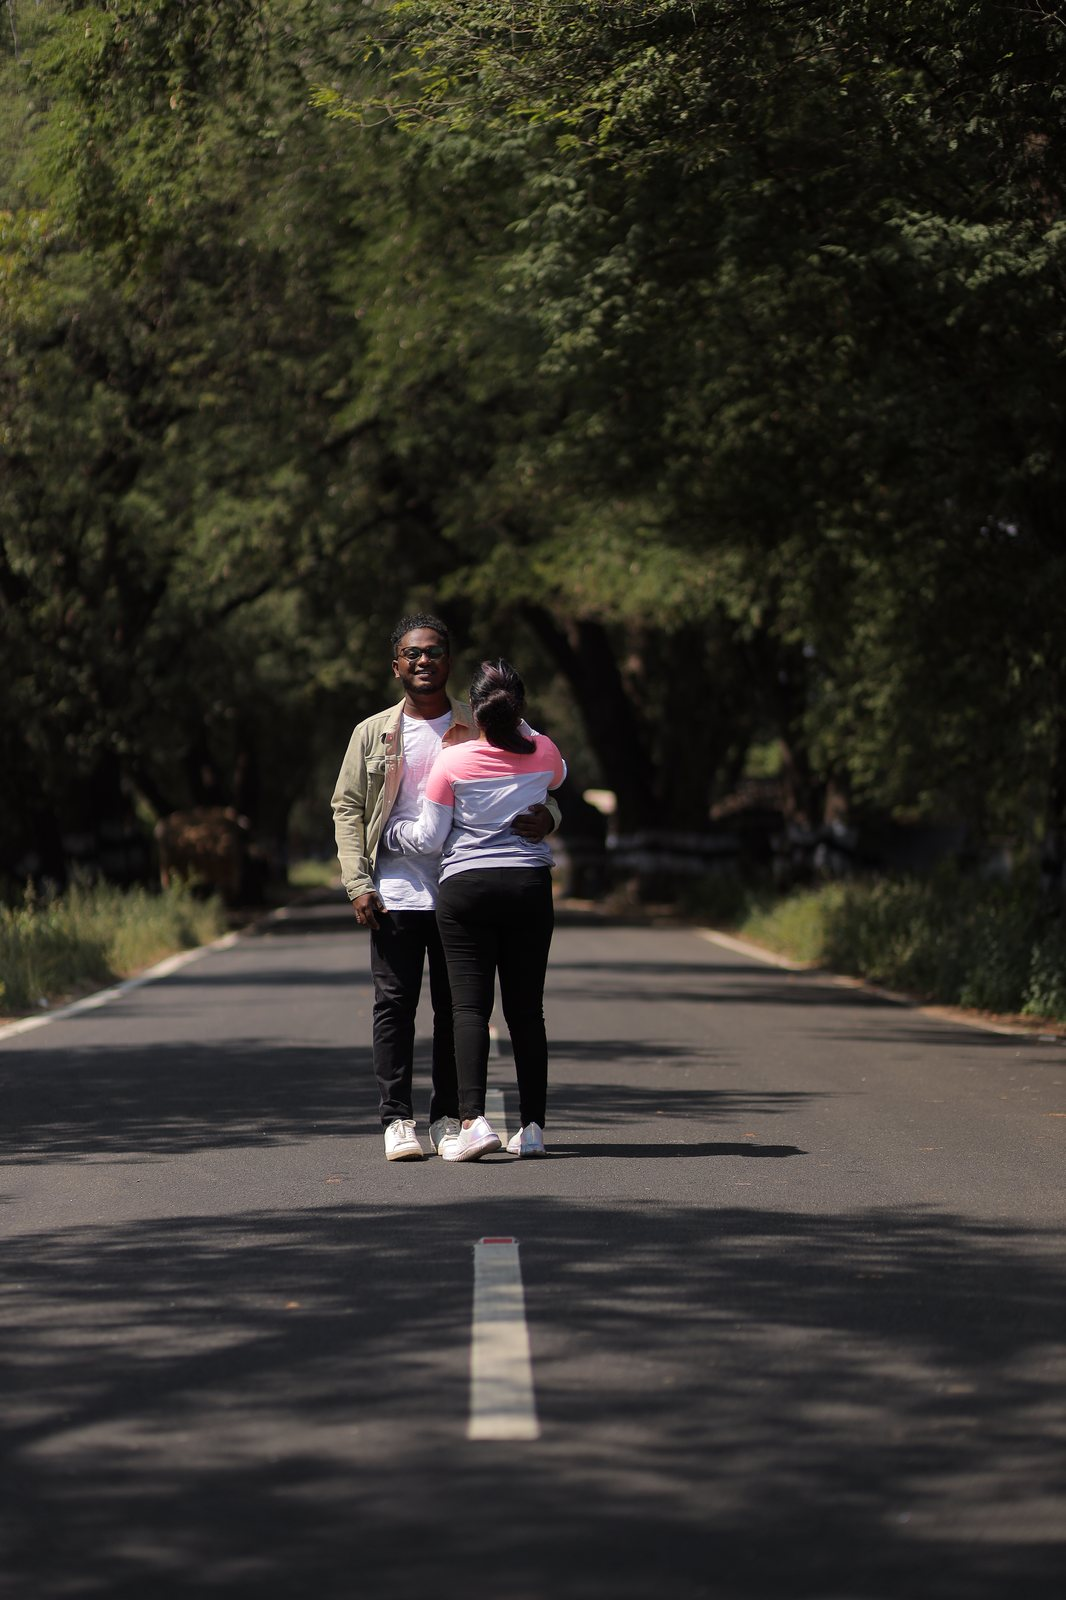
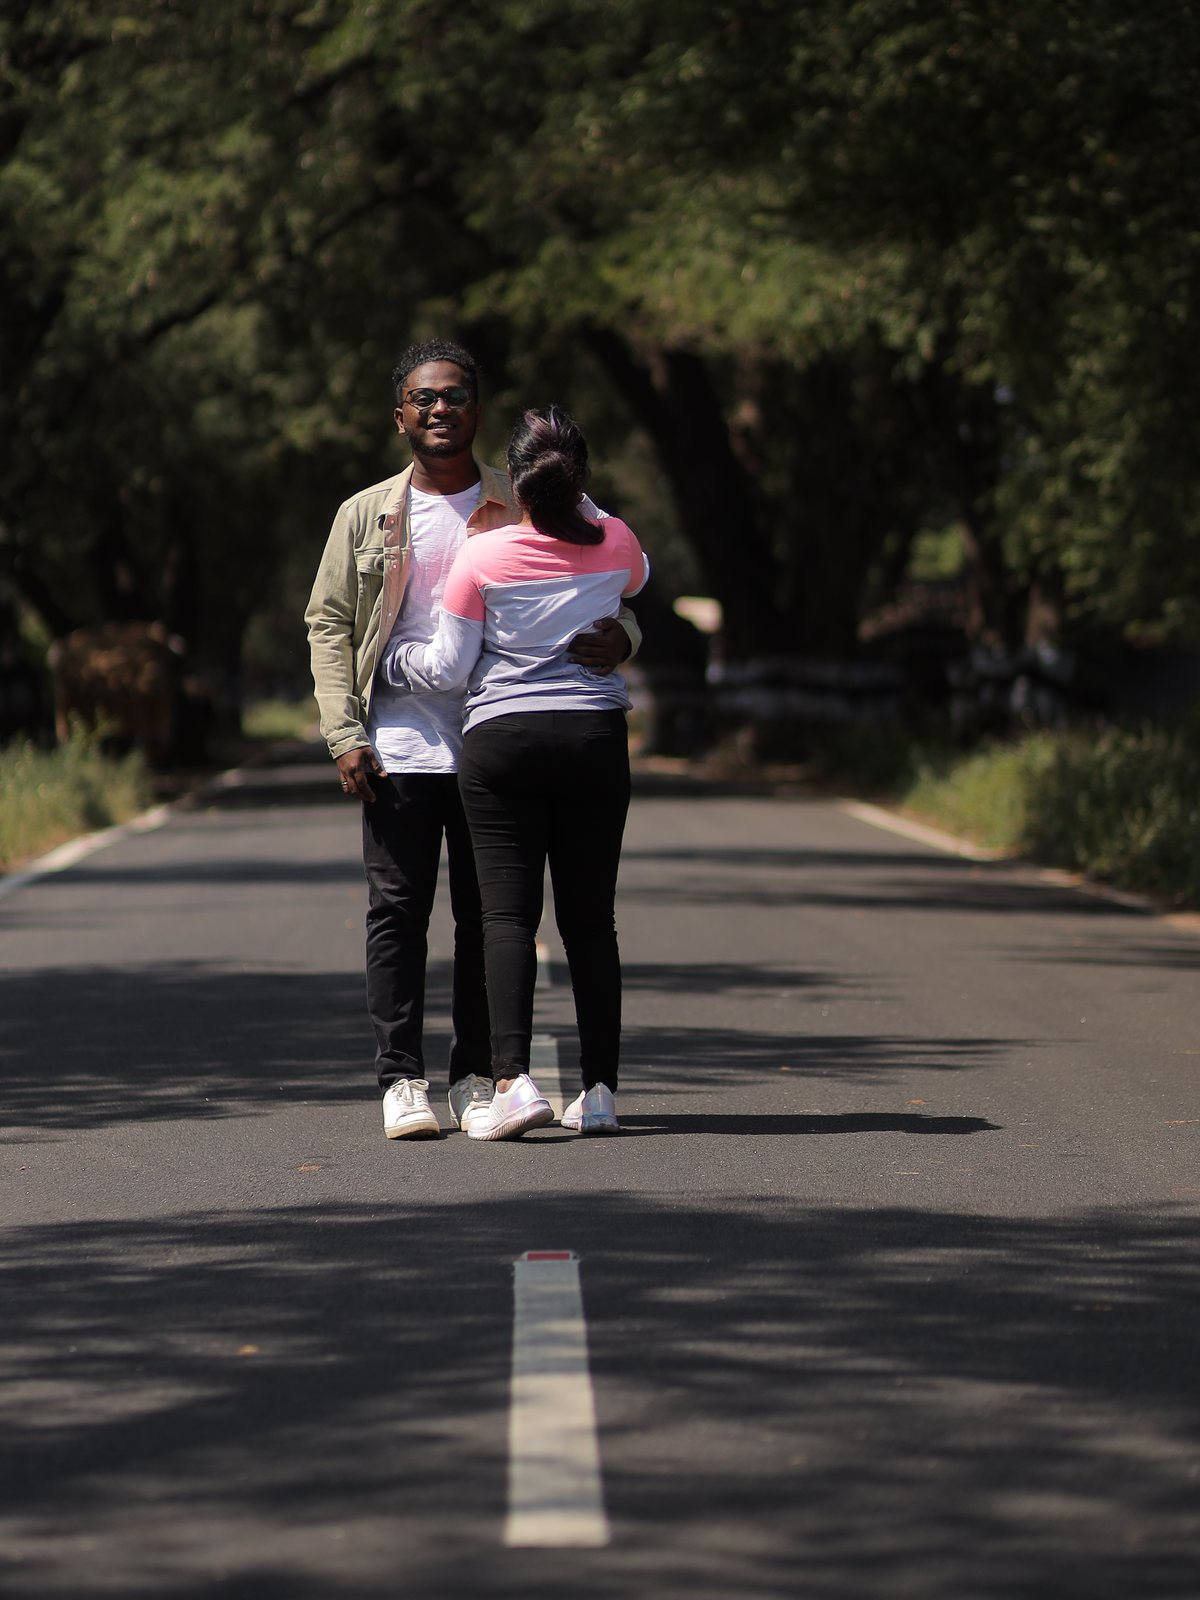
Update invite: fix 'J' font in Joshua, remove timeline, zoom photos with resized frames, single yellow photo line, update scripture to Isaiah 27:6

diff --git a/src/components/LoveStorySection.tsx b/src/components/LoveStorySection.tsx
@@ -4,32 +4,9 @@ import { weddingConfig } from '../data/weddingConfig';
 import { SectionHeader } from './common/SectionHeader';
 import { PurpleFloralDivider } from './common/PurpleFloralDivider';
 import { PurpleFloralCorner } from './common/PurpleFloralCorner';
-import { Heart, Sparkles } from 'lucide-react';
+import { Heart } from 'lucide-react';
 
 export const LoveStorySection: React.FC = () => {
-  const milestones = [
-    {
-      year: "2021",
-      title: "The Beginning",
-      description: "A blessed introduction through family and friends that gently opened the door to an extraordinary friendship.",
-    },
-    {
-      year: "2023",
-      title: "Growing in Faith",
-      description: "Shared prayers, deep conversations, and unconditional support deepened our love rooted in Christ.",
-    },
-    {
-      year: "2025",
-      title: "The Sacred Promise",
-      description: "With joyful hearts and heartfelt prayers, we committed our lives to one another and to God's purpose.",
-    },
-    {
-      year: "2026",
-      title: "Forever Begins",
-      description: "Surrounded by our beloved families and friends, we enter the holy covenant of marriage on 17th October 2026.",
-    },
-  ];
-
   return (
     <section id="story" className="relative mx-auto max-w-4xl scroll-mt-20 px-5 py-14 sm:px-8 sm:py-20">
       {/* Section Header */}
@@ -81,8 +58,8 @@ export const LoveStorySection: React.FC = () => {
           <p className="font-sans text-[0.62rem] uppercase tracking-[0.38em] font-semibold text-[#521782]">
             The Newlyweds
           </p>
-          <h3 className="font-serif italic font-medium text-[clamp(1.5rem,4.4vw,2.2rem)] leading-[1.35] text-purple-foil">
-            Joshua <span className="font-script text-[0.8em] text-[#521782] mx-1">&amp;</span> Asha
+          <h3 className="font-couple italic font-semibold text-[clamp(1.7rem,4.8vw,2.4rem)] leading-[1.35] text-purple-foil">
+            {weddingConfig.couple.groom} <span className="font-script text-[0.85em] text-[#521782] mx-1">&amp;</span> {weddingConfig.couple.bride}
           </h3>
           <div className="mt-1">
             <PurpleFloralDivider width="w-[140px]" />
@@ -97,87 +74,6 @@ export const LoveStorySection: React.FC = () => {
           {weddingConfig.loveStory.subtext}
         </p>
       </motion.div>
-
-      {/* Vertical Milestone Spine Timeline (Velvet Homecoming style) */}
-      <div className="relative mx-auto mt-12 max-w-2xl pl-[4.25rem] sm:mt-16 sm:pl-28">
-        {/* Continuous Spine Line */}
-        <span 
-          aria-hidden="true" 
-          className="pointer-events-none absolute bottom-3 left-[1.6rem] top-3 w-px sm:left-[3.1rem]" 
-          style={{
-            background: 'linear-gradient(180deg, transparent, rgba(176, 138, 63, 0.7) 12%, rgba(176, 138, 63, 0.7) 88%, transparent)'
-          }}
-        />
-
-        <div className="flex flex-col gap-8 sm:gap-10">
-          {milestones.map((item, idx) => (
-            <motion.div
-              key={item.year}
-              initial={{ opacity: 0, y: 22 }}
-              whileInView={{ opacity: 1, y: 0 }}
-              viewport={{ once: true }}
-              transition={{ duration: 0.8, delay: idx * 0.12 }}
-              className="relative"
-            >
-              {/* Year Circular Node on Left */}
-              <span 
-                aria-hidden="true" 
-                className="absolute top-1 grid h-[3.2rem] w-[3.2rem] -translate-x-[calc(100%+1.1rem)] place-items-center rounded-full text-center leading-none sm:h-16 sm:w-16 sm:-translate-x-[calc(100%+1.4rem)] z-10"
-                style={{
-                  background: 'radial-gradient(circle at 35% 30%, #521782, #230738)',
-                  border: '1px solid rgba(176, 138, 63, 0.75)',
-                  boxShadow: '0 0 0 4px rgba(251, 245, 234, 0.9), 0 0 0 5px rgba(176, 138, 63, 0.4), 0 10px 20px -10px rgba(35, 7, 56, 0.35)',
-                }}
-              >
-                <span className="font-serif font-bold text-[#F5E6C7] text-sm sm:text-base">
-                  {item.year}
-                </span>
-              </span>
-
-              {/* Milestone Card */}
-              <div className="relative rounded-[20px] px-6 py-6 text-left sm:px-8 sm:py-7 velvet-card">
-                {/* 4 Corner brackets */}
-                <span aria-hidden="true" className="pointer-events-none">
-                  <span className="absolute top-[10px] left-[10px] w-[13px] h-[13px] border-t border-l border-[#C3A45C]/70 rounded-tl-[3px]" />
-                  <span className="absolute top-[10px] right-[10px] w-[13px] h-[13px] border-t border-r border-[#C3A45C]/70 rounded-tr-[3px]" />
-                  <span className="absolute bottom-[10px] left-[10px] w-[13px] h-[13px] border-b border-l border-[#C3A45C]/70 rounded-bl-[3px]" />
-                  <span className="absolute bottom-[10px] right-[10px] w-[13px] h-[13px] border-b border-r border-[#C3A45C]/70 rounded-br-[3px]" />
-                </span>
-
-                <h4 className="font-serif italic font-medium text-[#230738] text-[clamp(1.15rem,3.6vw,1.45rem)] tracking-[0.01em]">
-                  {item.title}
-                </h4>
-
-                <div 
-                  className="my-2.5 h-px w-16" 
-                  style={{ background: 'linear-gradient(90deg, rgba(176, 138, 63, 0.75), transparent)' }} 
-                />
-
-                <p className="font-body text-[1.05rem] text-[#4A154B] leading-[1.8]">
-                  {item.description}
-                </p>
-              </div>
-            </motion.div>
-          ))}
-
-          {/* Final Callout: And so, forever begins */}
-          <div className="relative flex items-center gap-3 pt-2">
-            <span 
-              className="grid h-12 w-12 sm:h-14 sm:w-14 -translate-x-[calc(100%+1.1rem)] sm:-translate-x-[calc(100%+1.4rem)] place-items-center rounded-full"
-              style={{
-                background: 'radial-gradient(circle at 35% 30%, #521782, #230738)',
-                border: '1px solid rgba(176, 138, 63, 0.75)',
-                boxShadow: '0 0 0 4px rgba(251, 245, 234, 0.9), 0 0 0 5px rgba(176, 138, 63, 0.4)',
-              }}
-            >
-              <Sparkles className="h-5 w-5 text-[#E5C578]" />
-            </span>
-            <p className="font-script text-3xl sm:text-4xl text-[#230738] leading-none">
-              And so, forever begins.
-            </p>
-          </div>
-        </div>
-      </div>
     </section>
   );
 };

diff --git a/src/components/PhotoExperienceSection.tsx b/src/components/PhotoExperienceSection.tsx
@@ -42,7 +42,9 @@ export const PhotoExperienceSection: React.FC = () => {
             viewport={{ once: true }}
             transition={{ duration: 0.8, delay: index * 0.15 }}
             onClick={() => setSelectedPhotoIndex(index)}
-            className="group relative cursor-pointer overflow-hidden rounded-[24px] bg-gradient-to-b from-[#FFFDF9]/95 via-[#FAF6EE]/90 to-[#F6ECDC]/95 p-3 border border-[#B08A3F]/70 shadow-[0_15px_35px_rgba(35,7,56,0.14)] hover:shadow-[0_25px_50px_rgba(82,23,130,0.25)] hover:border-[#D4AF37] transition-all duration-500 hover:-translate-y-1.5"
+            className={`group relative cursor-pointer overflow-hidden rounded-[24px] bg-gradient-to-b from-[#FFFDF9]/95 via-[#FAF6EE]/90 to-[#F6ECDC]/95 p-3 border border-[#B08A3F]/70 shadow-[0_15px_35px_rgba(35,7,56,0.14)] hover:shadow-[0_25px_50px_rgba(82,23,130,0.25)] hover:border-[#D4AF37] transition-all duration-500 hover:-translate-y-1.5 ${
+              index === 4 ? 'sm:col-span-2 sm:max-w-xl sm:mx-auto w-full' : ''
+            }`}
           >
             {/* Ornate corner brackets */}
             <span aria-hidden="true" className="pointer-events-none">
@@ -52,35 +54,34 @@ export const PhotoExperienceSection: React.FC = () => {
               <span className="absolute bottom-[10px] right-[10px] w-4 h-4 border-b-2 border-r-2 border-[#B08A3F] rounded-br-[3px] z-10 group-hover:border-[#D4AF37] transition-colors" />
             </span>
 
-            {/* Image Container */}
-            <div className="relative overflow-hidden rounded-[18px] aspect-[4/3] sm:aspect-[4/3.2] bg-[#230738]/10">
+            {/* Image Container - Resized frame matching reference photo 1 (3:2) or tall portraits (3:4) */}
+            <div className={`relative overflow-hidden rounded-[18px] bg-[#230738]/10 ${
+              item.aspect === 'tall' ? 'aspect-[3/4]' : 'aspect-[3/2]'
+            }`}>
               <picture>
                 <source srcSet={item.url} type="image/webp" />
                 <img
                   src={item.fallbackUrl || item.url}
-                  alt={item.title}
-                  className="h-full w-full object-cover object-[center_35%] transition-transform duration-700 ease-out group-hover:scale-108"
+                  alt={item.subtitle}
+                  className="h-full w-full object-cover object-center transition-transform duration-700 ease-out group-hover:scale-105"
                   loading="lazy"
                   decoding="async"
                 />
               </picture>
 
               {/* Gradient Vignette */}
-              <div className="pointer-events-none absolute inset-0 bg-gradient-to-t from-[#230738]/80 via-[#230738]/20 to-transparent opacity-75 group-hover:opacity-90 transition-opacity duration-300" />
+              <div className="pointer-events-none absolute inset-0 bg-gradient-to-t from-[#230738]/80 via-[#230738]/15 to-transparent opacity-70 group-hover:opacity-85 transition-opacity duration-300" />
 
               {/* Hover Expand Icon */}
               <div className="absolute top-4 right-4 h-9 w-9 rounded-full bg-[#150323]/70 backdrop-blur-md border border-[#D4AF37]/60 flex items-center justify-center opacity-0 group-hover:opacity-100 transition-all duration-300 scale-90 group-hover:scale-100 shadow-md">
                 <Maximize2 className="h-4 w-4 text-[#E5C578]" />
               </div>
 
-              {/* Bottom Caption Overlay */}
+              {/* Bottom Caption Overlay: Only the yellow line as requested */}
               <div className="absolute bottom-4 left-4 right-4 text-left">
-                <span className="font-sans text-[0.62rem] uppercase tracking-[0.25em] text-[#E5C578] font-bold">
+                <span className="inline-block font-sans text-[0.72rem] sm:text-xs uppercase tracking-[0.28em] text-[#E5C578] font-bold drop-shadow-[0_2px_4px_rgba(0,0,0,0.8)]">
                   {item.subtitle}
                 </span>
-                <h3 className="font-serif italic text-xl text-[#FAF7F2] font-medium leading-snug drop-shadow-md">
-                  {item.title}
-                </h3>
               </div>
             </div>
 
@@ -154,7 +155,7 @@ export const PhotoExperienceSection: React.FC = () => {
                   <source srcSet={photos[selectedPhotoIndex].url} type="image/webp" />
                   <img
                     src={photos[selectedPhotoIndex].fallbackUrl || photos[selectedPhotoIndex].url}
-                    alt={photos[selectedPhotoIndex].title}
+                    alt={photos[selectedPhotoIndex].subtitle}
                     className="max-h-[72vh] w-auto mx-auto object-contain rounded-[14px]"
                     decoding="async"
                   />
@@ -163,13 +164,10 @@ export const PhotoExperienceSection: React.FC = () => {
 
               {/* Caption & Counter */}
               <div className="w-full mt-4 text-center px-4">
-                <p className="font-sans text-[0.68rem] uppercase tracking-[0.3em] text-[#E5C578] font-bold">
+                <p className="font-sans text-[0.72rem] uppercase tracking-[0.3em] text-[#E5C578] font-bold">
                   {selectedPhotoIndex + 1} of {photos.length} • {photos[selectedPhotoIndex].subtitle}
                 </p>
-                <h4 className="font-serif italic text-2xl text-gold-gradient mt-1 font-medium">
-                  {photos[selectedPhotoIndex].title}
-                </h4>
-                <p className="font-body italic text-sm text-[#DFCBF7]/90 mt-1 max-w-[50ch] mx-auto">
+                <p className="font-body italic text-base text-[#DFCBF7]/95 mt-2 max-w-[50ch] mx-auto">
                   {photos[selectedPhotoIndex].caption}
                 </p>
               </div>

diff --git a/src/components/ClosingSection.tsx b/src/components/ClosingSection.tsx
@@ -56,12 +56,12 @@ export const ClosingSection: React.FC = () => {
           </div>
 
           {/* Closing Scripture */}
-          <blockquote className="font-serif italic text-xl sm:text-2xl text-[#230738] max-w-[28ch] mx-auto leading-relaxed">
-            “What therefore God has joined together, let not man separate.”
+          <blockquote className="font-couple italic font-medium text-xl sm:text-2xl text-[#230738] max-w-[38ch] mx-auto leading-relaxed">
+            {weddingConfig.scripture.verse}
           </blockquote>
 
           <p className="mt-2 font-sans text-xs uppercase tracking-[0.3em] text-[#8C6D2A] font-semibold">
-            Matthew 19:6
+            {weddingConfig.scripture.citation}
           </p>
 
           <div className="mt-8 flex items-center justify-center gap-2 text-[#521782]">

diff --git a/src/data/weddingConfig.ts b/src/data/weddingConfig.ts
@@ -97,8 +97,8 @@ export const weddingConfig: WeddingConfig = {
     portrait: getAssetUrl("inside/inside_vertical.mp4"),    // Faststart 720x1280 mobile
   },
   scripture: {
-    verse: "“What therefore God has joined together, let not man separate.”",
-    citation: "Matthew 19:6",
+    verse: "“This is the season Jacob takes root and Israel blossoms and fills all the world with fruit.”",
+    citation: "Isaiah 27:6",
   },
   loveStory: {
     heading: "Two Lives • One Promise • One God",
@@ -159,7 +159,7 @@ export const weddingConfig: WeddingConfig = {
       title: "Sacred Covenant",
       subtitle: "Standing in Faith",
       caption: "Under the shelter of the Almighty, walking side by side.",
-      aspect: "tall"
+      aspect: "wide"
     },
     {
       id: 3,

diff --git a/src/components/BibleVerseSection.tsx b/src/components/BibleVerseSection.tsx
@@ -43,7 +43,7 @@ export const BibleVerseSection: React.FC = () => {
             <CrossOrnament size={32} />
           </span>
 
-          <blockquote className="mt-3 font-serif italic text-2xl sm:text-3.5xl text-purple-foil leading-relaxed max-w-[26ch] mx-auto">
+          <blockquote className="mt-3 font-couple italic font-medium text-2xl sm:text-3.5xl text-purple-foil leading-relaxed max-w-[38ch] mx-auto">
             {weddingConfig.scripture.verse}
           </blockquote>
 

diff --git a/src/App.tsx b/src/App.tsx
@@ -142,7 +142,7 @@ export default function App() {
               {/* 5. Moments in Time: 4 Authentic Pre-Shoot Photos + Lightbox Modal */}
               <PhotoExperienceSection />
 
-              {/* 6. Holy Matrimony Scripture: Matthew 19:6 */}
+              {/* 6. Holy Matrimony Scripture: Isaiah 27:6 */}
               <BibleVerseSection />
 
               {/* 7. RSVP Section: Attendee Reservation with Supabase Persistence */}

diff --git a/scripts/process_new_photos.py b/scripts/process_new_photos.py
@@ -24,6 +24,16 @@ for of in old_files:
 # Process each new photo in asset/photos
 photos = sorted([f for f in os.listdir(src_dir) if f.lower().endswith(('.jpg', '.jpeg', '.png'))])
 
+# Custom crops (left, upper, right, lower) to zoom in on the couple and show them in full size
+# Photo 1 (0U5A4855) is kept as reference (uncropped 3:2 landscape)
+CROPS = {
+    '0U5A4855': None,                             # Reference landscape 3:2
+    '0U5A5059': (400, 3600, 4080, 6600),          # Road scene: zoomed in wide crop (~4:3) on couple
+    '0U5A5096': (515, 1600, 3965, 6200),          # Embracing portrait: full-body 3:4 tall
+    '0U5A5193': (400, 1600, 4080, 6450),          # Walking portrait: full-body 3:4 tall
+    '0U5A5286': (1200, 1500, 5700, 4450),         # Paddy field landscape: zoomed in 3:2 wide
+}
+
 for f in photos:
     src_fp = os.path.join(src_dir, f)
     base_name = os.path.splitext(f)[0]
@@ -37,6 +47,10 @@ for f in photos:
         # Convert to RGB if needed
         if img.mode != 'RGB':
             img = img.convert('RGB')
+            
+        # Apply custom zoom crop if defined
+        if base_name in CROPS and CROPS[base_name] is not None:
+            img = img.crop(CROPS[base_name])
             
         # Target 1600px maximum dimension for ultra-sharp 2x retina display without huge payload
         max_dim = 1600
